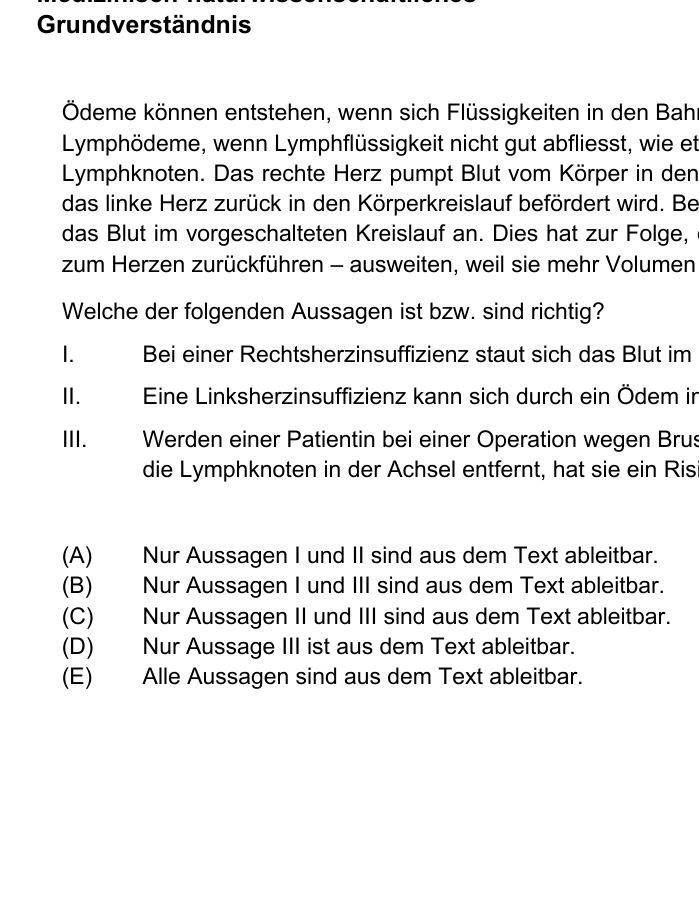
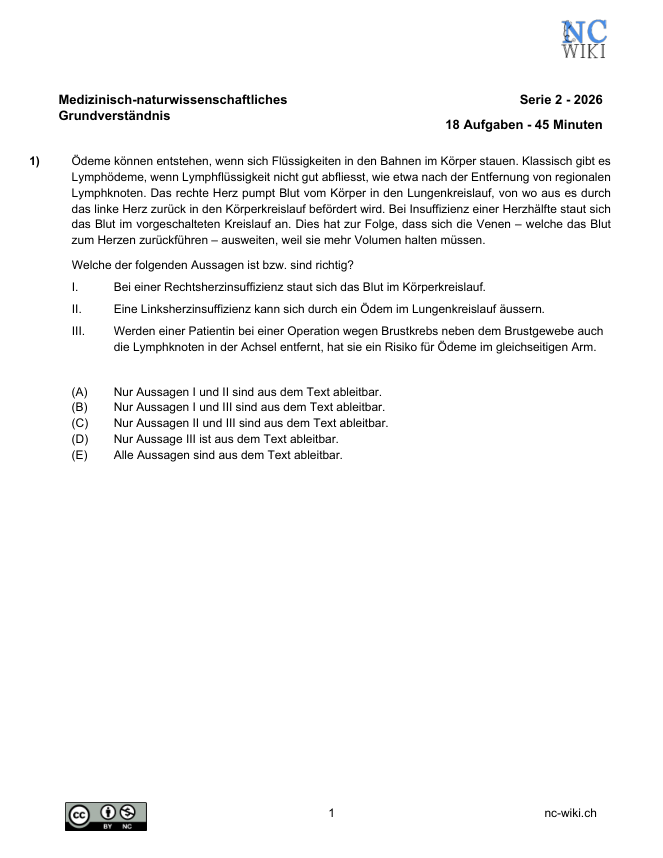
Show whole exercise sheets, not pieces of them
Die neun Felder der Übungs-Kachel waren Ausschnitte und sahen willkürlich
aus. Der Grund lag am Rand: Was ein Blatt als Blatt lesbar macht - Titel des
Untertests, Anzahl Aufgaben, Bearbeitungszeit, Logo, Lizenzhinweis - steht
aussen. Schneidet man in die Fläche hinein, bleibt eine Textur übrig.

Jetzt ist jedes Feld eine vollständige Seite. Dafür war zweierlei nötig:

Die Quell-PDFs haben nicht dasselbe Papierformat - sechs sind US Letter,
drei A4. Auf ein gemeinsames Verhältnis geschnitten würde bei der einen
Hälfte genau der Rand fehlen, um den es geht. Seiten werden deshalb mit
"contain" auf weissen Grund gelegt statt formatfüllend beschnitten; welche
Bilder Seiten sind und welche Fotos, sagt "papier" im Template.

Der weisse Grund ist fest und nicht --color-surface: Die Seiten sind selbst
weiss, im Dunkelmodus bekämen sie sonst einen dunklen Rahmen ums Papier.

Alle vier Flächen behalten dasselbe Verhältnis (1:1.35, zwischen Letter und
A4), sonst stünden die Titel darunter auf verschiedenen Höhen.

Im Erzeugungsskript entfallen damit die Ausschnitts-Koordinaten und das
Seitenverhältnis - pro Bild bleiben PDF und Seitenzahl.

Claude-Session: https://claude.ai/code/session_01NzYAmHRH1jdaugnAH8kJ7c

diff --git a/layouts/partials/material-grid.html b/layouts/partials/material-grid.html
@@ -38,17 +38,23 @@
 {{- /* Zu jedem "key": wohin verlinkt wird und welche Bilder die Fläche füllt.
        Mehr als ein Bild = Collage.
 
-       Bei den Übungsaufgaben sind es neun Hochformat-Ausschnitte, drei je
-       Reihe: zuerst der Antwortbogen, dann die acht Untertests in der
-       Reihenfolge des echten Testtags (wie in data/testablauf.yaml). Der
-       Antwortbogen steht vorn, weil er das Erste ist, was am Testtag auf dem
-       Pult liegt - und weil ihn jede Person wiedererkennt, die den EMS schon
-       einmal gesehen hat. */ -}}
+       Bei den Übungsaufgaben sind es neun GANZE SEITEN, drei je Reihe:
+       zuerst der Antwortbogen, dann die acht Untertests in der Reihenfolge
+       des echten Testtags (wie in data/testablauf.yaml). Der Antwortbogen
+       steht vorn, weil er das Erste ist, was am Testtag auf dem Pult liegt -
+       und weil ihn jede Person wiedererkennt, die den EMS schon einmal
+       gesehen hat.
+
+       "papier" sagt, ob die Bilder Seiten aus PDFs sind. Dann werden sie
+       vollständig gezeigt (contain, weisser Grund) statt formatfüllend
+       beschnitten - eine halbe Seite sieht willkürlich aus. Fotos und
+       Bildschirmfotos bleiben auf "false": bei ihnen ist ein Anschnitt
+       richtig, sie haben keinen Rand, der etwas bedeutet. */ -}}
 {{- $quellen := dict
-  "uebungsaufgaben"    (dict "url" "ems/uebungsaufgaben/"    "bilder" (slice "k1-antwortblatt" "k2-muster" "k3-mednat" "k4-objekte" "k5-quantitativ" "k6-figuren" "k7-text" "k8-diagramme" "k9-konztest"))
-  "testsimulationen"   (dict "url" "ems/testsimulationen/"   "bilder" (slice "testheft"))
-  "vorbereitungskurse" (dict "url" "ems/vorbereitungskurse/" "bilder" (slice "vorbereitungskurse/vorbereitungskurs-2024.jpg"))
-  "community"          (dict "url" "ems/uniguide/"           "bilder" (slice "uniguide" "berichte" "discord"))
+  "uebungsaufgaben"    (dict "url" "ems/uebungsaufgaben/"    "papier" true  "bilder" (slice "k1-antwortblatt" "k2-muster" "k3-mednat" "k4-objekte" "k5-quantitativ" "k6-figuren" "k7-text" "k8-diagramme" "k9-konztest"))
+  "testsimulationen"   (dict "url" "ems/testsimulationen/"   "papier" true  "bilder" (slice "testheft"))
+  "vorbereitungskurse" (dict "url" "ems/vorbereitungskurse/" "papier" false "bilder" (slice "vorbereitungskurse/vorbereitungskurs-2024.jpg"))
+  "community"          (dict "url" "ems/uniguide/"           "papier" false "bilder" (slice "uniguide" "berichte" "discord"))
 }}
 
 <ul class="material">
@@ -66,7 +72,7 @@
 
   <li class="material-stueck">
     <a href="{{ relLangURL $quelle.url }}">
-      <span class="material-flaeche material-{{ len $quelle.bilder }}">
+      <span class="material-flaeche material-{{ len $quelle.bilder }}{{ if $quelle.papier }} material-papier{{ end }}">
         {{- range $quelle.bilder }}
         {{- /* Ein Name ohne Endung liegt in images/angebot/ und stammt aus
                scripts/angebot-bilder-erzeugen.py. Ein Name MIT Endung ist ein

diff --git a/assets/css/style.css b/assets/css/style.css
@@ -963,15 +963,25 @@ section{padding-block:var(--space-20);border-bottom:1px solid var(--color-line);
 .material{list-style:none;margin:var(--space-8) 0 0;padding:0;
   display:grid;grid-template-columns:repeat(4,1fr);gap:var(--space-6);}
 .material-stueck a{display:block;text-decoration:none;color:inherit;}
-.material-flaeche{display:grid;aspect-ratio:1/1.3;overflow:hidden;gap:2px;
+/* 1:1.35 liegt zwischen den beiden Papierformaten, die in den PDFs vorkommen
+   (US Letter 1:1.294, A4 1:1.415). Alle vier Flächen haben dasselbe
+   Verhältnis - sonst stünden die Titel darunter auf verschiedenen Höhen. */
+.material-flaeche{display:grid;aspect-ratio:1/1.35;overflow:hidden;gap:2px;
   background:var(--color-line);border:1px solid var(--color-line);
   border-radius:var(--radius-sm);box-shadow:var(--shadow-md);
   transition:transform .2s,box-shadow .2s;}
 .material-flaeche img{display:block;width:100%;height:100%;object-fit:cover;object-position:top center;background:var(--color-surface);}
 .material-1{grid-template-columns:1fr;gap:0;}
 .material-1 img{object-position:top center;}
-/* Neun Ausschnitte im Hochformat, drei je Reihe - dasselbe Verhältnis wie
-   die Fläche selbst, deshalb wird nichts beschnitten. */
+/* PAPIER: ganze Seiten aus den PDFs. "contain" statt "cover", weil eine Seite
+   vollständig zu sehen sein muss - ein angeschnittener Rand ist genau das,
+   was die früheren Ausschnitte willkürlich aussehen liess. Die Quellen sind
+   teils US Letter, teils A4; contain zeigt beide ganz, der weisse Grund macht
+   den kleinen Unterschied unsichtbar. Weiss ist hier fest und nicht
+   "--color-surface", denn die Seiten sind selbst weiss: im Dunkelmodus
+   bekämen sie sonst einen dunklen Rahmen um das Papier. */
+.material-papier img{object-fit:contain;object-position:center;background:#fff;}
+/* Neun ganze Seiten, drei je Reihe. */
 .material-9{grid-template-columns:repeat(3,1fr);grid-template-rows:repeat(3,1fr);}
 /* Drei Teile: drei Querstreifen übereinander. Nebeneinander wären die Felder
    hochkant, und die drei Bilder (Uniguide-Tabelle, Berichte-Karten, Discord-

diff --git a/scripts/angebot-bilder-erzeugen.py b/scripts/angebot-bilder-erzeugen.py
@@ -25,10 +25,18 @@ Die drei entstehen mit Playwright; wie, steht in docs/WARTUNG-DETAILLIERT.md.
 Aus dem echten Discord-Server gibt es bewusst KEIN Bild - dort stehen Namen
 und Nachrichten von Leuten.
 
-DAS SEITENVERHÄLTNIS 1:1.30 (hochkant) ist nicht beliebig: Genau so sind die
-neun Felder der Collage geschnitten (drei Spalten, drei Zeilen in einer Fläche
-mit demselben Verhältnis). Ein anderes Verhältnis führt dazu, dass die
-Ausschnitte beschnitten werden und Teile davon fehlen.
+GANZE SEITEN, KEINE AUSSCHNITTE. Die Collage der Übungsserien zeigte früher
+neun geschnittene Stücke - die sahen willkürlich aus, weil ihnen Kopfzeile,
+Rand und Seitenzahl fehlten. Jetzt ist jedes der neun Felder eine VOLLSTÄNDIGE
+Seite: mit Titel des Untertests, Aufgabenzahl, Bearbeitungszeit, Logo und
+Lizenzhinweis. Genau das macht sichtbar, dass es echte eigene Blätter sind.
+
+ACHTUNG, DIE PDFs HABEN NICHT ALLE DASSELBE FORMAT: sechs der neun Quellen
+sind US Letter (612x792 pt, Verhältnis 1:1.294), drei sind A4 (595x842 pt,
+1:1.415). Deshalb wird hier NICHT auf ein gemeinsames Verhältnis geschnitten -
+das würde bei der einen Hälfte den Rand abschneiden. Stattdessen legt das
+Stylesheet jede Seite mit "object-fit: contain" auf ein weisses Feld; sie ist
+dann immer ganz zu sehen, egal welches Format sie hat.
 ================================================================================
 """
 import os
@@ -42,30 +50,25 @@ except ImportError:
 WURZEL = os.path.dirname(os.path.dirname(os.path.abspath(__file__)))
 ZIEL = os.path.join(WURZEL, 'assets/images/angebot')
 UEBUNGEN = os.path.join(WURZEL, 'assets/downloads/uebungsaufgaben')
-VERHAELTNIS = 1.30      # Hochformat: Hoehe = Breite * 1.30
 
-# Je Untertest: welche Datei, welche Seite (ab 0) und wie weit unten der
-# Ausschnitt beginnt (Anteil der Seitenhöhe). Die Werte sind so gewählt, dass
-# die Aufgaben zu sehen sind und nicht die Kopfzeile.
-# NEUN AUSSCHNITTE IM HOCHFORMAT, drei je Reihe in der Collage: zuerst der
-# ANTWORTBOGEN - das Erste, was am Testtag auf dem Pult liegt und für alle,
-# die den EMS kennen, sofort wiedererkennbar -, danach die acht Untertests in
-# der Reihenfolge des echten Testtags (dieselbe wie in data/testablauf.yaml).
+# Je Untertest EINE ganze Seite: welche Datei und welche Seite daraus (ab 0).
+# NEUN SEITEN, drei je Reihe in der Collage: zuerst der ANTWORTBOGEN - das
+# Erste, was am Testtag auf dem Pult liegt und für alle, die den EMS kennen,
+# sofort wiedererkennbar -, danach die acht Untertests in der Reihenfolge des
+# echten Testtags (dieselbe wie in data/testablauf.yaml).
 #
-# Je Eintrag: Name, Pfad ab dem Projektordner, Seite (ab 0), linker Rand des
-# Ausschnitts und sein oberer Rand als Anteil der Seite, und die Höhe des
-# Ausschnitts als Anteil der Seitenhöhe. Die Breite wird daraus gerechnet -
-# siehe VERHAELTNIS.
+# Gewählt ist jeweils eine Seite mit AUFGABEN darauf, nicht das Deckblatt und
+# nicht die Anleitung: Die Kachel soll zeigen, wie die Aufgaben aussehen.
 TEILE = [
-    ('k1-antwortblatt', 'assets/downloads/testsimulationen/2026_testsimulationen_Testsimulation.pdf', 0, 0.05, 0.30, 0.55),
-    ('k2-muster',       'assets/downloads/uebungsaufgaben/muster-zuordnen/2026_muster-zuordnen_S04.pdf', 0, 0.06, 0.10, 0.55),
-    ('k3-mednat',       'assets/downloads/uebungsaufgaben/med-nat-grundverstaendnis/2026_med-nat-grundverstaendnis_S02.pdf', 0, 0.06, 0.12, 0.55),
-    ('k4-objekte',      'assets/downloads/uebungsaufgaben/objekte-im-raum/2026_objekte-im-raum_S06.pdf', 0, 0.06, 0.12, 0.55),
-    ('k5-quantitativ',  'assets/downloads/uebungsaufgaben/quantitative-probleme/2026_quantitative-probleme_S03.pdf', 2, 0.10, 0.12, 0.55),
-    ('k6-figuren',      'assets/downloads/uebungsaufgaben/figuren-fakten-lernen/2026_figuren-einpraegen_S04.pdf', 1, 0.10, 0.13, 0.55),
-    ('k7-text',         'assets/downloads/uebungsaufgaben/textverstaendnis/2026_textverstaendnis_S03.pdf', 0, 0.06, 0.16, 0.55),
-    ('k8-diagramme',    'assets/downloads/uebungsaufgaben/diagramme-tabellen/2026_diagramme-tabellen_S03.pdf', 3, 0.10, 0.10, 0.55),
-    ('k9-konztest',     'assets/downloads/uebungsaufgaben/konzentriertes-arbeiten/2025_konzentriertes-arbeiten_S19.pdf', 0, 0.06, 0.22, 0.55),
+    ('k1-antwortblatt', 'assets/downloads/testsimulationen/2026_testsimulationen_Testsimulation.pdf', 0),
+    ('k2-muster',       'assets/downloads/uebungsaufgaben/muster-zuordnen/2026_muster-zuordnen_S04.pdf', 0),
+    ('k3-mednat',       'assets/downloads/uebungsaufgaben/med-nat-grundverstaendnis/2026_med-nat-grundverstaendnis_S02.pdf', 0),
+    ('k4-objekte',      'assets/downloads/uebungsaufgaben/objekte-im-raum/2026_objekte-im-raum_S06.pdf', 0),
+    ('k5-quantitativ',  'assets/downloads/uebungsaufgaben/quantitative-probleme/2026_quantitative-probleme_S03.pdf', 2),
+    ('k6-figuren',      'assets/downloads/uebungsaufgaben/figuren-fakten-lernen/2026_figuren-einpraegen_S04.pdf', 1),
+    ('k7-text',         'assets/downloads/uebungsaufgaben/textverstaendnis/2026_textverstaendnis_S03.pdf', 0),
+    ('k8-diagramme',    'assets/downloads/uebungsaufgaben/diagramme-tabellen/2026_diagramme-tabellen_S03.pdf', 3),
+    ('k9-konztest',     'assets/downloads/uebungsaufgaben/konzentriertes-arbeiten/2025_konzentriertes-arbeiten_S19.pdf', 0),
 ]
 
 # Ganze Seiten (kein Ausschnitt). Das Kursskript steht hier NICHT: Für die
@@ -75,24 +78,6 @@ TEILE = [
 SEITEN = [
     ('testheft', 'assets/downloads/testsimulationen/2026_testsimulationen_Testsimulation.pdf', 2),
 ]
-
-
-def ausschnitt(name, pfad, seite_nr, links, oben, hoehe):
-    voll = os.path.join(WURZEL, pfad)
-    if not os.path.exists(voll):
-        print('  FEHLT, übersprungen: %s' % pfad)
-        return
-    dok = pymupdf.open(voll)
-    seite = dok[min(seite_nr, dok.page_count - 1)]
-    r = seite.rect
-    hoehe_pt = r.height * hoehe
-    breite = hoehe_pt / VERHAELTNIS
-    x0 = min(r.width * links, max(0.0, r.width - breite))
-    clip = pymupdf.Rect(x0, r.height * oben, x0 + breite, r.height * oben + hoehe_pt)
-    pix = seite.get_pixmap(dpi=150, clip=clip)
-    pix.save(os.path.join(ZIEL, name + '.png'))
-    print('  %-16s %-46s %4dx%4d' % (name, os.path.basename(pfad), pix.width, pix.height))
-    dok.close()
 
 
 def ganze_seite(name, pfad, seite_nr):
@@ -109,10 +94,10 @@ def ganze_seite(name, pfad, seite_nr):
 
 def main():
     os.makedirs(ZIEL, exist_ok=True)
-    print('Neun Ausschnitte (Antwortbogen + acht Untertests):')
+    print('Neun ganze Seiten (Antwortbogen + acht Untertests):')
     for eintrag in TEILE:
-        ausschnitt(*eintrag)
-    print('Ganze Seiten:')
+        ganze_seite(*eintrag)
+    print('Weitere ganze Seiten:')
     for eintrag in SEITEN:
         ganze_seite(*eintrag)
     print('\nFertig. Die drei Bilder der Collage "Orientierung und Austausch"')
